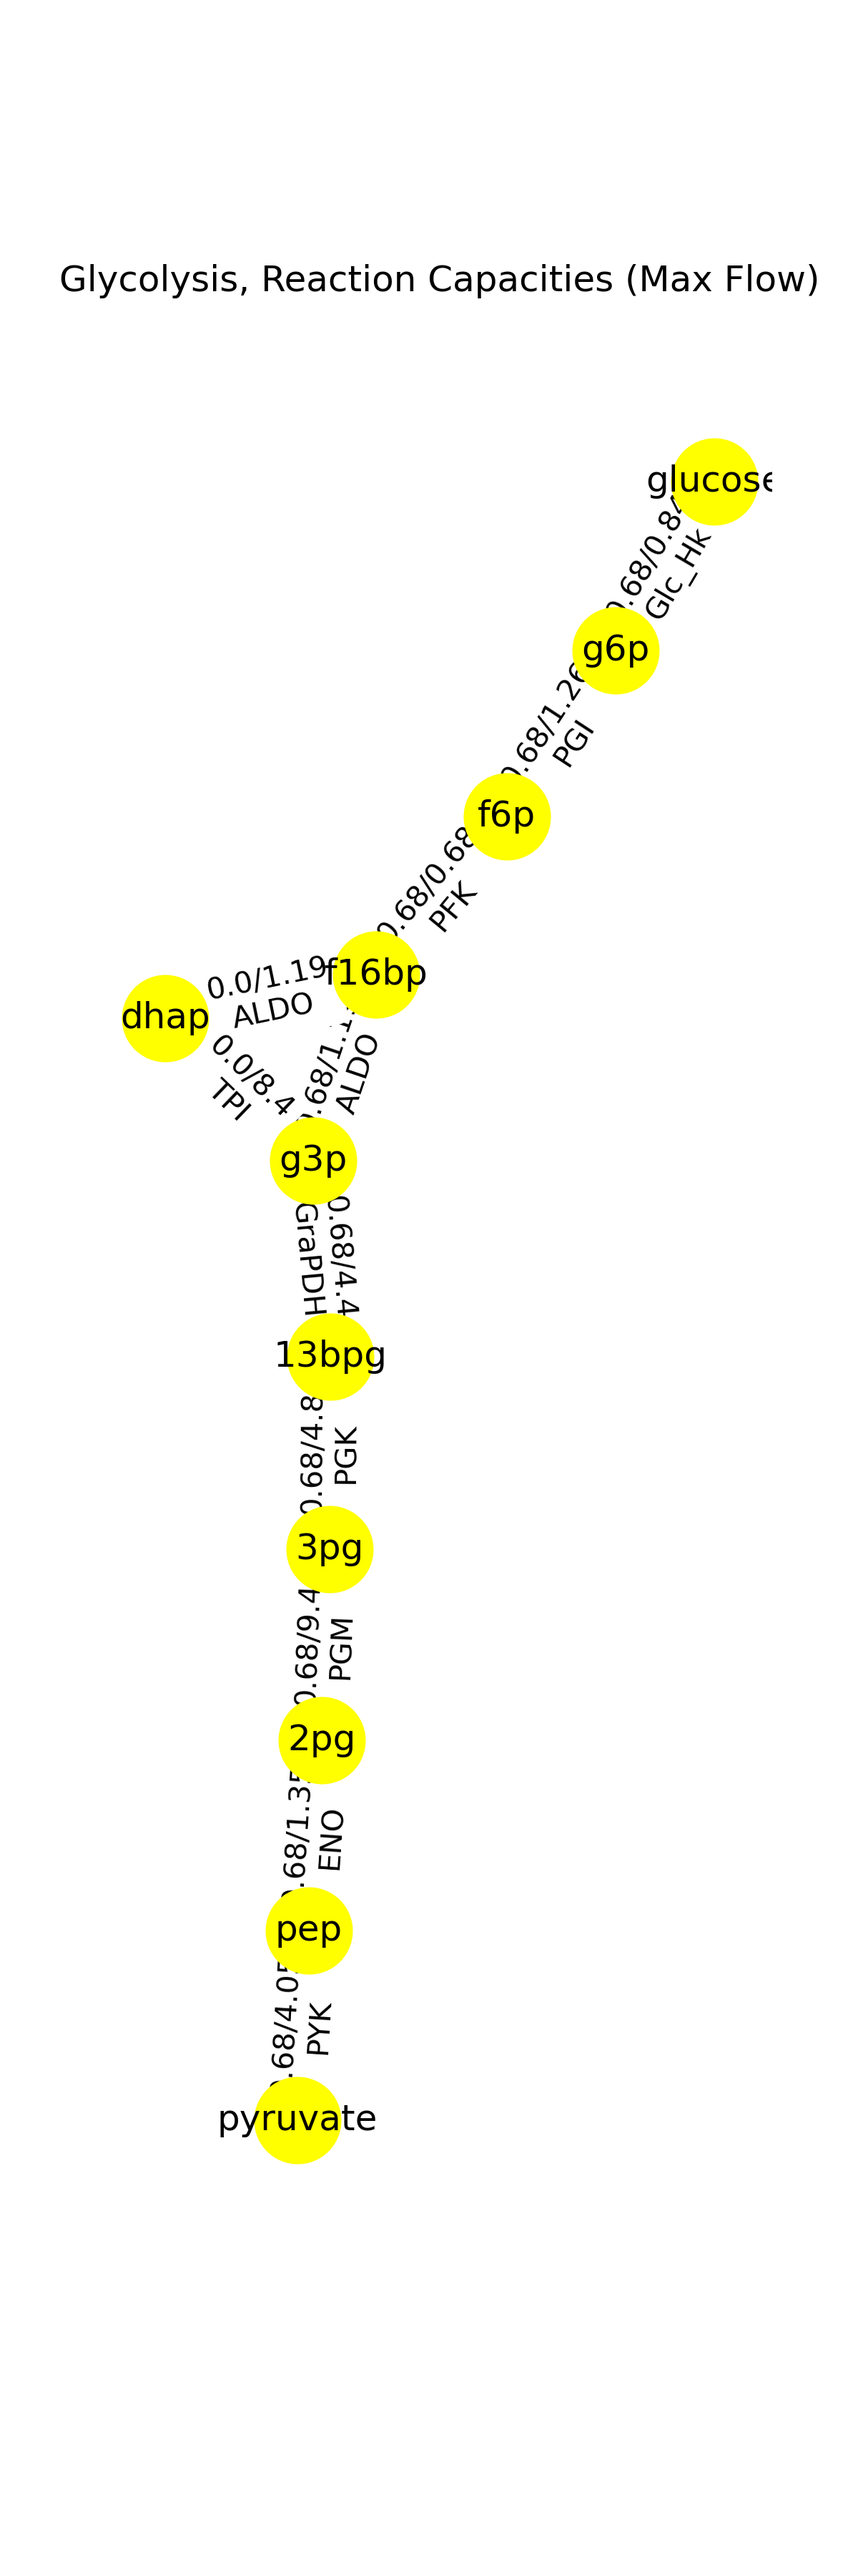
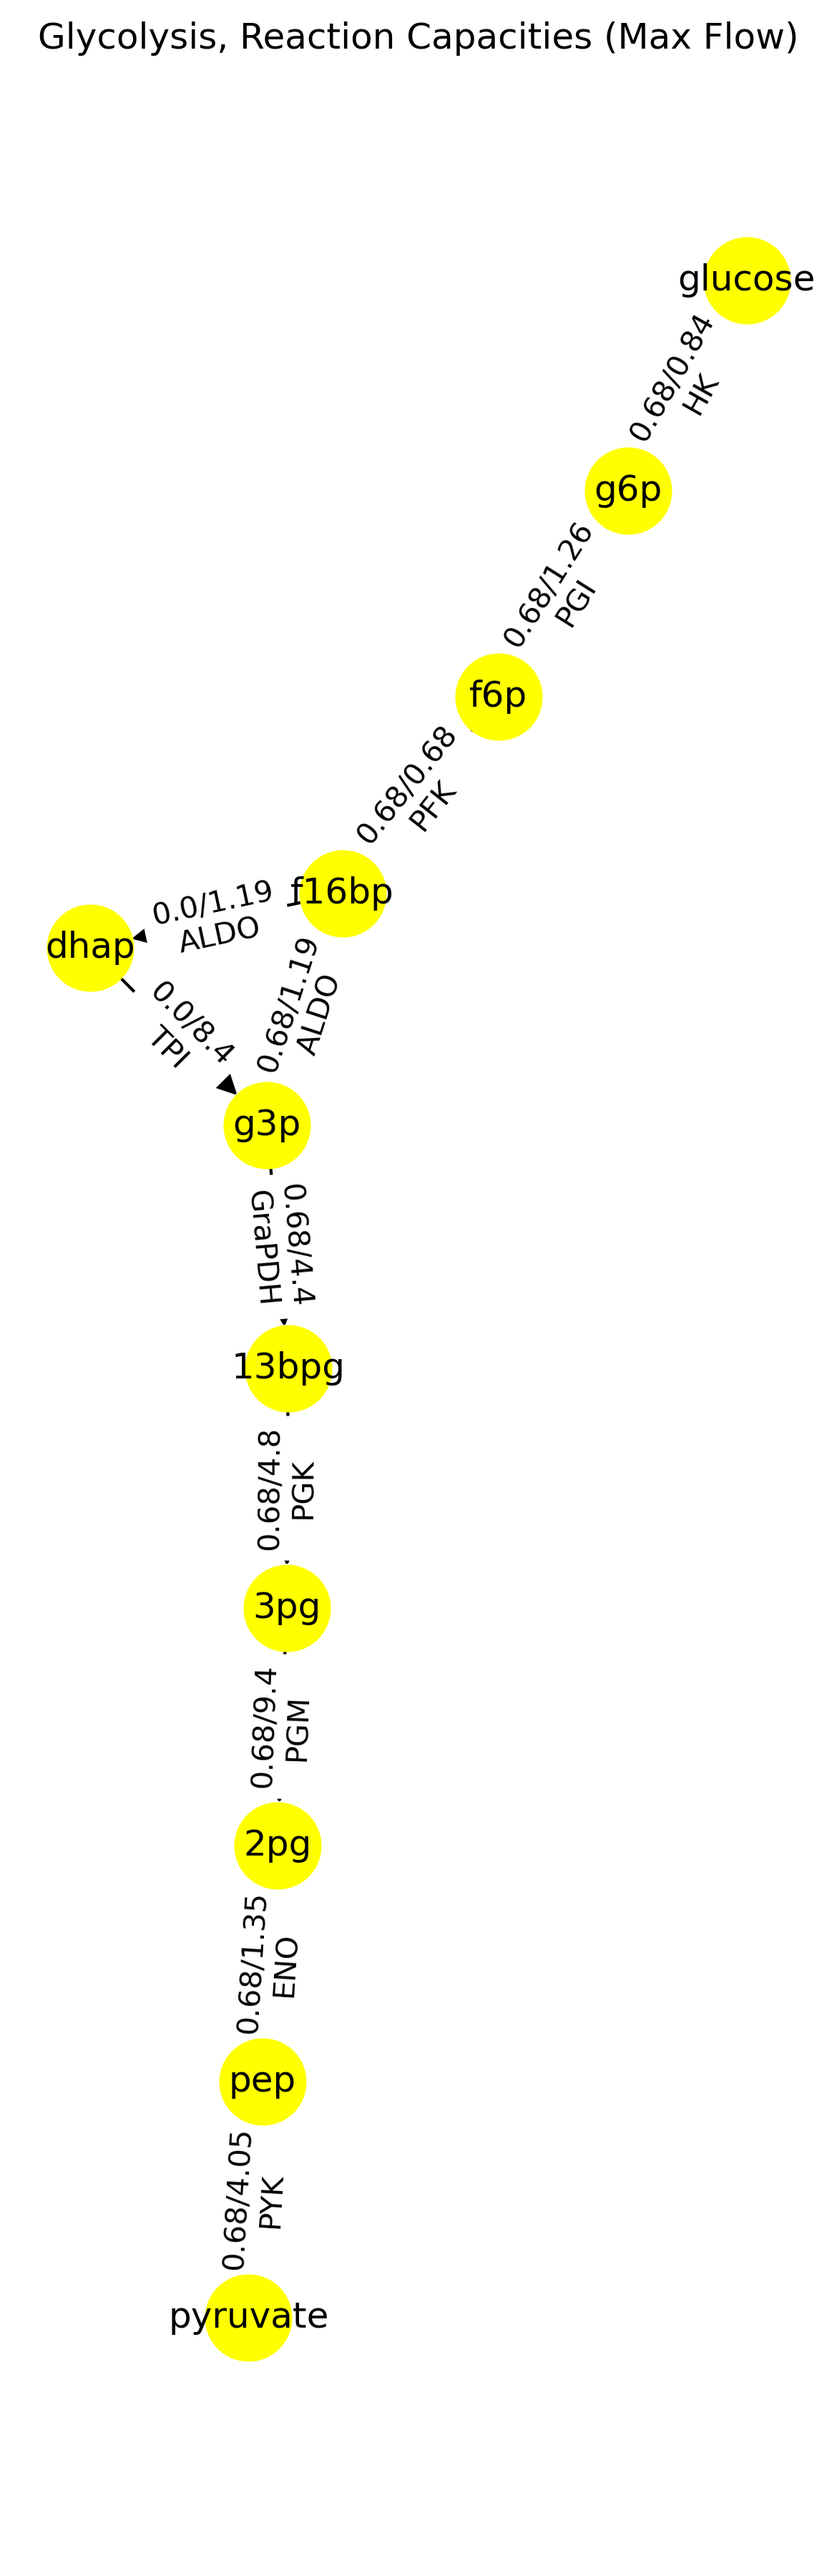
Update files

diff --git a/Data/rouhg.py b/Data/rouhg.py
@@ -4,7 +4,7 @@ from collections import deque
 import copy
 import matplotlib.pyplot as plt
 
-def network_graph(csv_path, return_png = False, png_filename = None, title=None):
+def network_graph(csv_path, return_png = False, png_filename = None, title = None, edge_labels = False):
     """
     Build a directed graph from the metabolic CSV file,
     with capacity constraints on edges.
@@ -23,10 +23,12 @@ def network_graph(csv_path, return_png = False, png_filename = None, title=None)
 
     if return_png == True:
         pos = nx.kamada_kawai_layout(G, scale=8.0)
-        edge_labels = {(u, v): f"{G[u][v]['flow']}/{G[u][v]['capacity']}\n{G[u][v]['enzyme']}" for u, v in G.edges()}
         plt.figure(figsize=(4, 12))
         plt.title(title)
         nx.draw(G, pos, with_labels=True, node_color="skyblue", node_size=800, arrows=True, arrowsize=20)
+        if edge_labels == True:
+            edge_labels = {(u, v): f"{G[u][v]['flow']}/{G[u][v]['capacity']}\n{G[u][v]['enzyme']}" for u, v in G.edges()}
+            nx.draw_networkx_edge_labels(G, pos, edge_labels=edge_labels, font_color="black", font_size=8)
         nx.draw_networkx_edge_labels(G, pos, edge_labels=edge_labels, font_color="black")
         plt.tight_layout()
         plt.savefig(png_filename, format="png", dpi=300,bbox_inches='tight')
@@ -34,13 +36,14 @@ def network_graph(csv_path, return_png = False, png_filename = None, title=None)
     return G
 
 
-def plot_graph(G, png_filename = None, title=None):
+def plot_graph(G, png_filename = None, title = None, edge_labels = False):
     pos = nx.kamada_kawai_layout(G, scale=8.0)
-    edge_labels = {(u, v): f"{G[u][v]['flow']}/{G[u][v]['capacity']}\n{G[u][v]['enzyme']}" for u, v in G.edges()}
     plt.figure(figsize=(4, 12))
     plt.title(title)
     nx.draw(G, pos, with_labels=True, node_color="yellow", node_size=800, arrows=True, arrowsize=20)
-    nx.draw_networkx_edge_labels(G, pos, edge_labels=edge_labels, font_color="black")
+    if edge_labels == True:
+        edge_labels = {(u, v): f"{G[u][v]['flow']}/{G[u][v]['capacity']}\n{G[u][v]['enzyme']}" for u, v in G.edges()}
+        nx.draw_networkx_edge_labels(G, pos, edge_labels=edge_labels, font_color="black", font_size=8)
     plt.tight_layout()
     plt.savefig(png_filename, format="png", dpi=300, bbox_inches='tight')
     
@@ -163,11 +166,14 @@ def min_cut(G, source):
 
 
 def main():
-    G = network_graph("glycolysis_network.csv", return_png=True, png_filename="glycolysis.png", title="Glycolysis, Reaction Capacities (No Flow)") 
+    G = network_graph("glycolysis_network.csv", return_png=True, png_filename="glycolysis.png",
+                      title="Glycolysis") 
+    G = network_graph("glycolysis_network.csv", return_png=True, png_filename="glycolysis_noflow.png", 
+                      title="Glycolysis, Reaction Capacities (No Flow)", edge_labels=True) 
 
     maxflow, G = edmonds_karp_maxflow(G, "glucose", "pyruvate")
 
-    plot_graph(G, png_filename="glycolysis_updated.png", title="Glycolysis, Reaction Capacities (Max Flow)")
+    plot_graph(G, png_filename="glycolysis_maxflow.png", title="Glycolysis, Reaction Capacities (Max Flow)", edge_labels=True)
 
     print("\nMaximum flux:", maxflow)
 
@@ -177,8 +183,8 @@ def main():
 
     print("\nMin-cut (bottleneck) reactions:")
     S, T, cut_edges, rate_limiting_enzymes = min_cut(G, "glucose")
-    print("  Pre-bottleneck reactions:", S)
-    print("  Post-bottleneck reactions:", T)
+    print("  Pre-bottleneck node(s):", S)
+    print("  Post-bottleneck node(s):", T)
     print("  Min-cut (bottleneck) reaction(s):", cut_edges)
     print("  Rate-limiting enzyme(s):", rate_limiting_enzymes)
 
